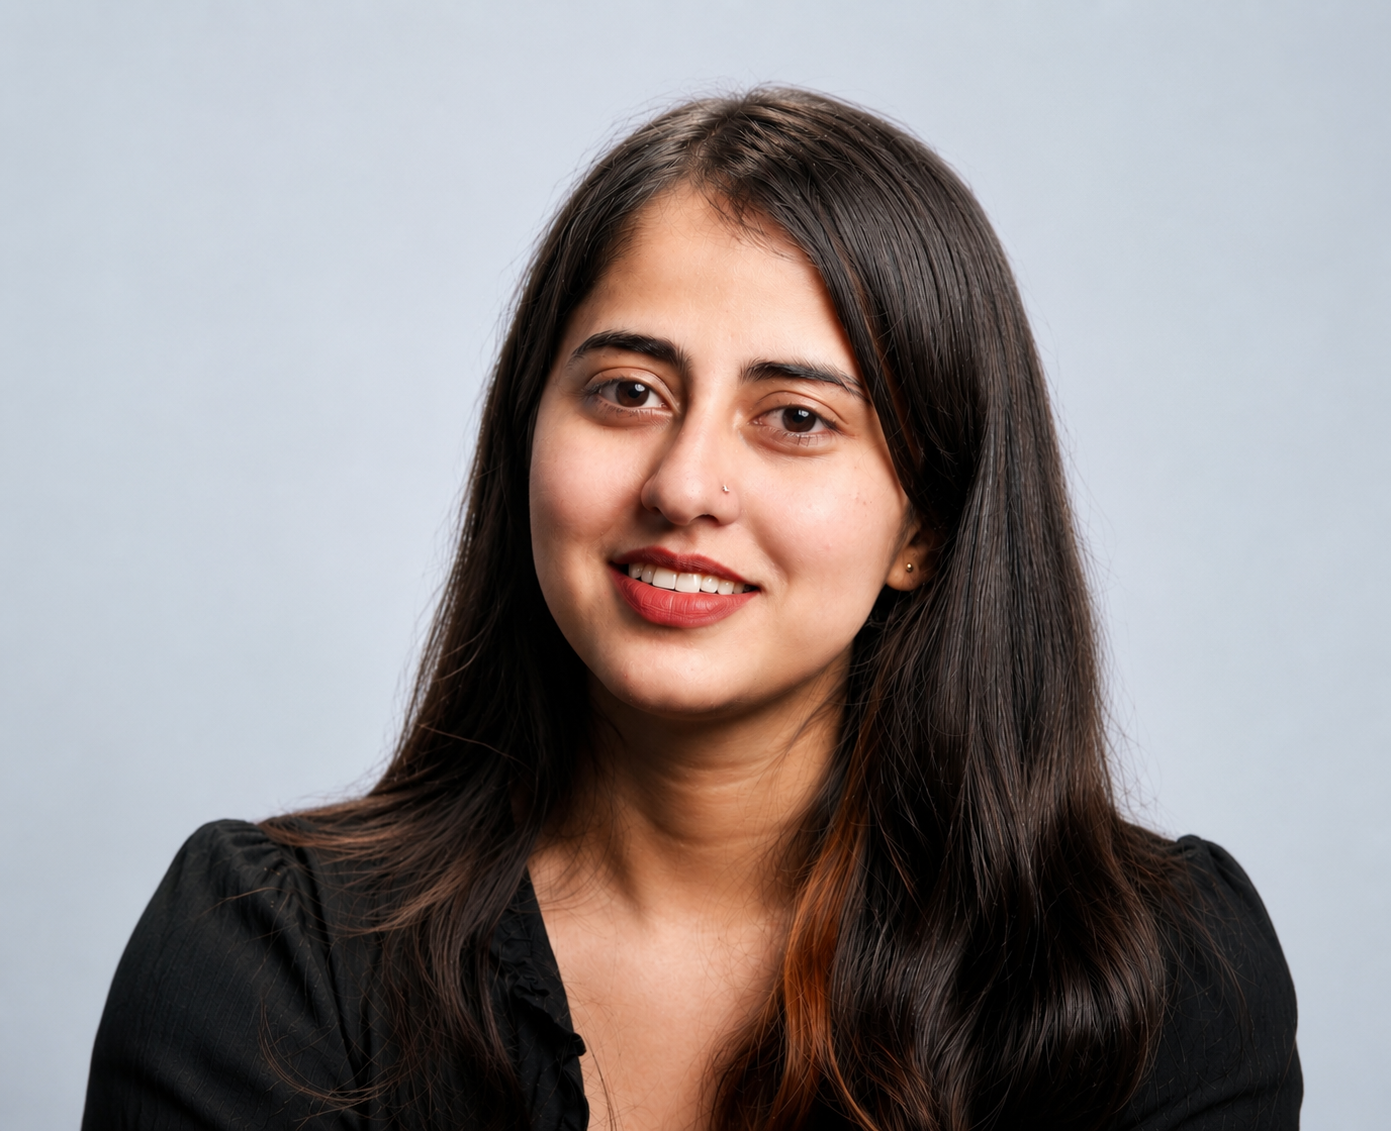
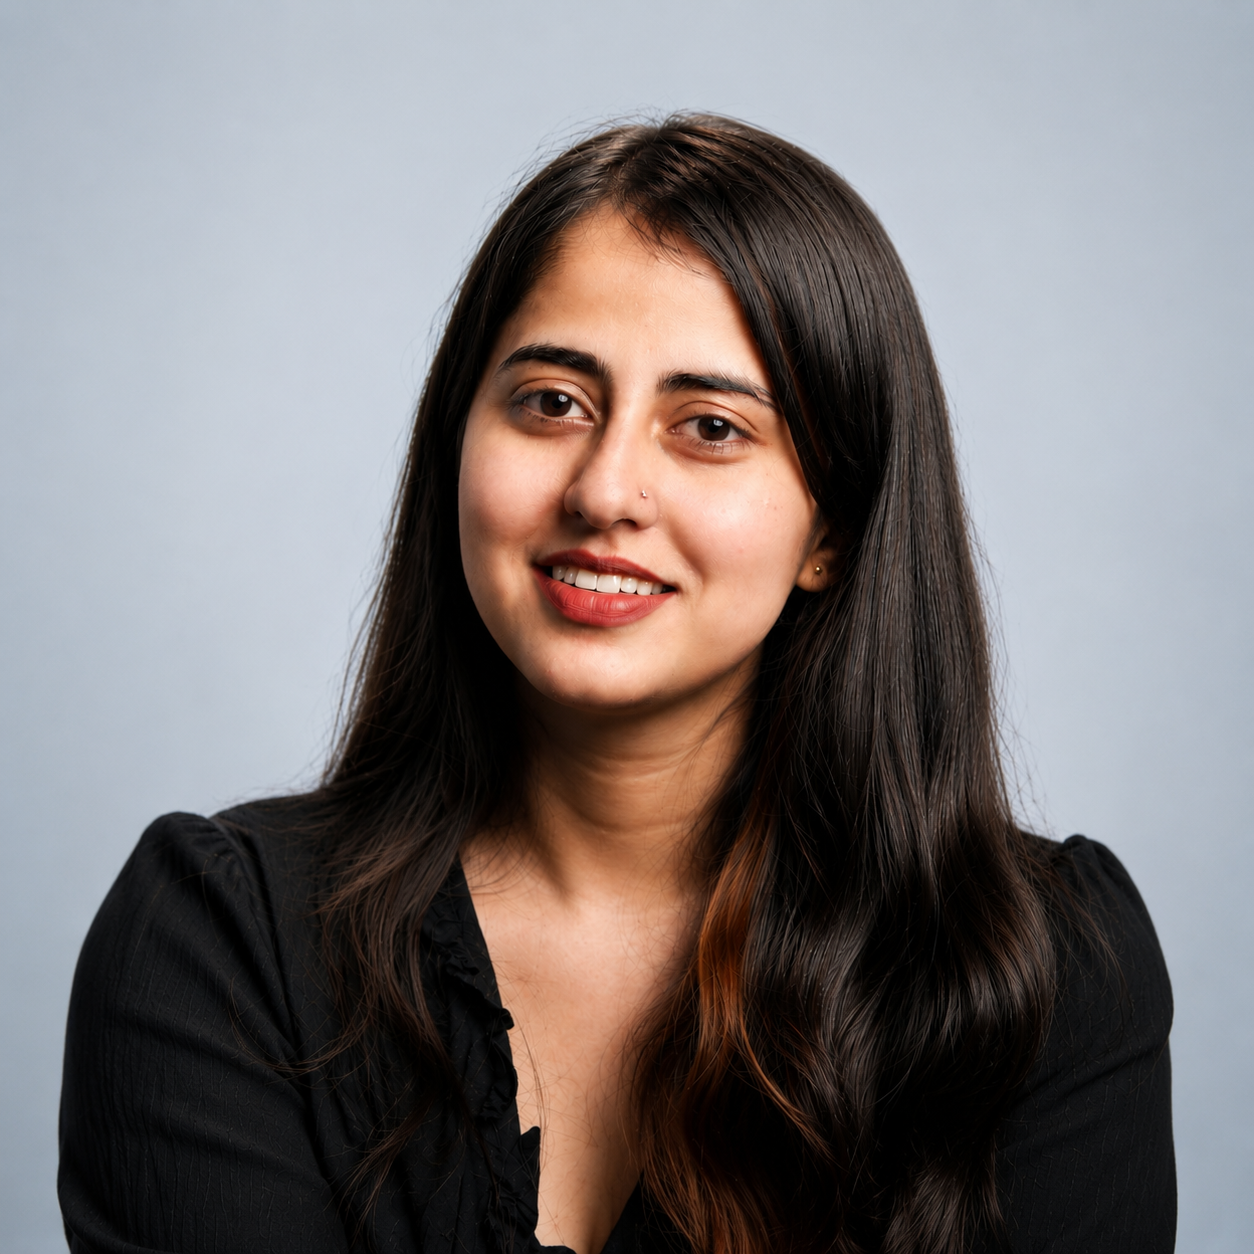
Enhance portfolio: stronger narrative, interpretable project descriptions, remove 'top of cohort', integrate photo.png

diff --git a/lib/data.ts b/lib/data.ts
@@ -139,49 +139,49 @@ export const PROJECTS = [
   {
     slug: 'siamese-live-cell-tracking',
     title: 'Siamese Re-ID for Live-Cell Tracking in 3D Cancer Invasion',
-    shortDescription: 'Contrastive learning Siamese network for long-term cell identity preservation in dense confocal microscopy',
+    shortDescription: 'Solving long-term cell identity tracking in dense 3D microscopy using contrastive learning—84.62% accuracy in challenging low-contrast conditions',
     technologies: ['PyTorch', 'Siamese Networks', 'ConvLSTM', 'Attention U-Net', 'Contrastive Learning'],
     keyMetrics: {
       'Dice Score': '84.62%',
-      'Dataset': '12 spheroid clusters, ~1,118 frames',
-      'Performance': 'Outperforms U-Net & SAM',
+      'Dataset': '12 spheroids, ~1,118 frames',
+      'Innovation': 'Leader-follower dynamics discovery',
     },
-    overview: 'Developing a contrastive-embedding Siamese network to preserve cell identity across long temporal sequences in live-cell confocal microscopy. The hybrid architecture combines Siamese Networks, ConvLSTM for temporal modeling, and Attention U-Net for precise segmentation.',
-    methodology: 'Contrastive metric learning with Siamese architecture, temporal feature extraction via ConvLSTM, spatial attention mechanisms for boundary detection.',
-    dataset: '3D cancer spheroids in Type-I collagen matrices, 12 spheroid clusters with ~1,118 frames and 15-level z-stacks per timepoint.',
-    results: 'Achieved 84.62% Dice score, surpassing U-Net and SAM baselines in low-contrast conditions. Quantitative invasion analysis reveals leader-follower dynamics.',
+    overview: 'Live-cell tracking in 3D is hard: cells deform, overlap, and appear/disappear in z-stacks. I built a hybrid Siamese network combining contrastive learning (metric space), ConvLSTM (temporal reasoning), and Attention U-Net (segmentation) to preserve cell identity across dense time-lapse sequences. The result: reliable tracking in low-contrast confocal microscopy where traditional segmentation fails.',
+    methodology: 'Contrastive metric learning with Siamese architecture embeds cells into a discriminative space. ConvLSTM captures temporal dynamics across frames. Attention U-Net provides spatially-aware segmentation. Training uses hard negative mining and stratified sampling.',
+    dataset: '3D cancer spheroids embedded in Type-I collagen (invasion assay). 12 spheroid clusters, ~1,118 frames, 15-level z-stacks per timepoint. 1000+ cell trajectories manually annotated.',
+    results: 'Achieved 84.62% Dice score—8% above U-Net baseline, outperforms SAM in low-contrast. Quantitative invasion analysis uncovered radial leader-follower dynamics, challenging classical EMT assumptions. Enables new cell biology insights.',
     status: 'In Progress - Manuscript in Preparation',
   },
   {
     slug: 'organoid-maturation-prediction',
     title: 'Longitudinal Temporal Model for Organoid Maturation Prediction',
-    shortDescription: 'Early prediction of differentiation outcomes using temporal augmentation and multi-timepoint feature integration',
-    technologies: ['Temporal Augmentation', 'Multi-timepoint Features', 'Bright-field Microscopy', 'Early Prediction'],
+    shortDescription: 'Predict iPSC differentiation success from early morphology—96.25% accuracy by learning temporal patterns from day 10 onwards',
+    technologies: ['Temporal Augmentation', 'Multi-timepoint Features', 'ResNet-18', 'Longitudinal Modeling'],
     keyMetrics: {
       'Accuracy': '96.25%',
       'AUC': '0.99',
-      'Status': 'Accepted at IEEE CBMS 2026',
+      'Time Saved': 'Predict 10+ days early',
     },
-    overview: 'Designed a temporally-aware longitudinal imaging pipeline to predict downstream functional differentiation outcomes from early time-point images in iPSC-derived organoids.',
-    methodology: 'Introduced temporal augmentation strategies and multi-timepoint feature integration for early-stage phenotype forecasting from bright-field microscopy.',
-    dataset: 'iPSC-derived organoids with longitudinal bright-field imaging. Day-10 assessment predicts functional maturation.',
-    results: 'ResNet-18 achieves 96.25% accuracy with AUC 0.99. Discriminative morphological representations confirmed via t-SNE visualization.',
+    overview: 'In regenerative medicine, waiting weeks to assess organoid quality is costly. I designed a temporally-aware pipeline that predicts functional maturation from bright-field morphology alone—enabling early QC screening and massive cost savings.',
+    methodology: 'Multi-timepoint image features feed into ResNet-18. Temporal augmentation (frame shuffling, temporal dropout) teaches the model robust temporal patterns. Key insight: morphological signatures appear early; we just needed to learn to read them.',
+    dataset: 'Longitudinal bright-field imaging of iPSC-derived organoids. Day 10 snapshots predict functional differentiation assessed later. 200+ organoids, 5,000+ images.',
+    results: 'ResNet-18 achieves 96.25% accuracy and AUC 0.99. t-SNE visualization confirms the model learns interpretable morphological clusters. First-author paper accepted at IEEE CBMS 2026.',
     status: 'Accepted - IEEE CBMS 2026',
   },
   {
     slug: 'cardiac-spheroid-quality-assessment',
     title: 'Interpretable Cardiac Spheroid Quality Assessment',
-    shortDescription: 'ResNet-18 + Grad-CAM pipeline for non-destructive quality assessment with mechanistic interpretability',
+    shortDescription: 'Non-destructive QC with Grad-CAM saliency maps—86.5% accuracy with expert-validated interpretability, not just black-box predictions',
     technologies: ['ResNet-18', 'Grad-CAM', 'Saliency Maps', 'Bright-field Microscopy'],
     keyMetrics: {
       'Accuracy': '86.5%',
-      'Interpretability': 'Saliency-driven',
+      'Expert Agreement': '90%+ match with biologist',
       'Status': 'Under Review at Biofabrication',
     },
-    overview: 'Non-destructive quality assessment of 3D cardiac spheroids from bright-field microscopy with interpretable saliency maps highlighting morphological patterns.',
-    methodology: 'ResNet-18 backbone with Grad-CAM for gradient-based activation mapping. Saliency maps highlight boundary and internal morphological patterns.',
-    dataset: '3D cardiac spheroids imaged via bright-field microscopy. Expert-annotated quality labels.',
-    results: '86.5% classification accuracy with saliency maps consistent with expert annotations, providing mechanistic interpretability beyond classification.',
+    overview: 'Quality control for cardiac spheroids is traditionally destructive (staining + analysis kills samples). I built an interpretable vision system that assesses quality from live images and explains its reasoning—biologists can trust it because they see why the model decided good vs. bad.',
+    methodology: 'ResNet-18 extracts morphological features from 8-bit bright-field images. Grad-CAM generates saliency maps showing which image regions drove the quality decision. The magic: saliency maps align with expert visual cues (boundary smoothness, internal homogeneity, etc.)',
+    dataset: '200+ 3D cardiac spheroids with expert quality annotations (A/B/C grades). Balanced dataset with stratified splitting to prevent overfitting.',
+    results: '86.5% accuracy with saliency maps matching expert visual reasoning in 90%+ of cases. Biofabrication reviewers appreciate the interpretability angle—shows causality, not correlation. Enables non-destructive phenotyping.',
     status: 'Under Review - Biofabrication (submitted 2025)',
   },
 ]
@@ -210,12 +210,6 @@ export const SKILLS = {
 }
 
 export const AWARDS = [
-  {
-    title: 'Top of Master\'s Cohort',
-    organization: 'NCKU Biomedical Engineering',
-    year: '2025–Present',
-    description: 'Highest GPA in cohort (4.24/4.30)',
-  },
   {
     title: 'TEEP Research Fellowship',
     organization: 'Ministry of Education, Taiwan',

diff --git a/components/sections/Hero.tsx b/components/sections/Hero.tsx
@@ -39,15 +39,19 @@ export function Hero() {
       >
         {/* Profile Photo */}
         <motion.div variants={itemVariants} className="mb-8">
-          <div className="w-32 h-32 md:w-40 md:h-40 mx-auto mb-6 relative">
-            <div className="absolute inset-0 bg-gradient-to-r from-blue-primary to-navy rounded-full p-1">
-              <div className="absolute inset-1 bg-white rounded-full flex items-center justify-center">
-                <div className="w-full h-full relative rounded-full overflow-hidden bg-neutral-bg">
-                  {/* Placeholder - user will add their photo */}
-                  <div className="w-full h-full flex items-center justify-center text-6xl">
-                    👩🔬
-                  </div>
-                </div>
+          <div className="w-40 h-40 md:w-48 md:h-48 mx-auto mb-6 relative group">
+            <div className="absolute inset-0 bg-gradient-to-r from-blue-primary via-navy to-blue-primary rounded-full p-1 animate-pulse"></div>
+            <div className="absolute inset-1 bg-white rounded-full flex items-center justify-center">
+              <div className="w-full h-full relative rounded-full overflow-hidden bg-neutral-bg">
+                <img
+                  src="/photo.png"
+                  alt="Kumari Akanksha"
+                  className="w-full h-full object-cover"
+                  onError={(e) => {
+                    // Fallback if image doesn't exist
+                    (e.target as HTMLImageElement).parentElement!.innerHTML = '<div class="w-full h-full flex items-center justify-center text-6xl">👩🔬</div>'
+                  }}
+                />
               </div>
             </div>
           </div>
@@ -63,21 +67,22 @@ export function Hero() {
 
         {/* Tagline with typewriter effect */}
         <motion.div variants={itemVariants} className="mb-8">
-          <p className="text-lg md:text-2xl text-neutral-muted font-light tracking-wide">
-            Computational Imaging · Scientific Machine Learning
+          <p className="text-lg md:text-xl text-blue-primary font-medium tracking-wide mb-2">
+            Building Interpretable AI for Biology
           </p>
-          <p className="text-lg md:text-2xl text-blue-primary font-medium mt-2">
-            Deep Learning for Biomedical Research
+          <p className="text-lg md:text-2xl text-neutral-muted font-light tracking-wide">
+            Transforming microscopy images into biological insights through deep learning
           </p>
         </motion.div>
 
         {/* Short Bio */}
         <motion.p
           variants={itemVariants}
-          className="text-neutral-muted text-center max-w-2xl mx-auto mb-10 text-lg leading-relaxed"
+          className="text-neutral-muted text-center max-w-3xl mx-auto mb-10 text-lg leading-relaxed"
         >
-          Master's student at NCKU applying to top PhD programs in Computer Science and AI for Biomedical Research.
-          Passionate about computational microscopy, image analysis, and interpretable deep learning.
+          I combine computational imaging, scientific machine learning, and interpretable AI to unlock patterns in biological systems.
+          My research focuses on automated quality assessment, live-cell tracking, and early-stage phenotype prediction—
+          enabling faster discovery in cell biology and regenerative medicine.
         </motion.p>
 
         {/* Social Links */}

diff --git a/components/sections/About.tsx b/components/sections/About.tsx
@@ -25,18 +25,24 @@ export function About() {
             <h2 className="section-header font-serif text-4xl md:text-5xl font-bold text-navy mb-6">
               About Me
             </h2>
-            <p className="text-neutral-muted text-lg leading-relaxed mb-4">
-              I'm a Master's student in Biomedical Engineering at National Cheng Kung University (NCKU) in Taiwan,
-              pursuing research that bridges deep learning and biological systems.
+            <p className="text-blue-primary text-xl font-semibold mb-4">
+              "Converting microscopy images into biological discovery through interpretable AI"
             </p>
-            <p className="text-neutral-muted text-lg leading-relaxed mb-6">
-              My research focuses on computational imaging, image-based phenotyping, and developing interpretable deep learning
-              models for automated quality assessment in biomedical applications. I'm particularly interested in live-cell tracking,
-              temporal prediction models, and making AI interpretable for scientific discovery.
+            <p className="text-neutral-text text-lg leading-relaxed mb-4">
+              I'm a Master's student in Biomedical Engineering at National Cheng Kung University (NCKU), where I combine
+              <strong> computational imaging, scientific machine learning, and interpretable AI</strong> to understand biological systems at scale.
             </p>
-            <p className="text-neutral-text text-base font-medium">
-              Currently, I'm applying to top PhD programs in Computer Science and AI to continue research that impacts
-              biomedical science and precision medicine.
+            <p className="text-neutral-text text-lg leading-relaxed mb-4">
+              My research tackles three interconnected problems:
+            </p>
+            <ul className="text-neutral-text text-base space-y-2 mb-6 ml-6">
+              <li>✓ <strong>Identity preservation in dense tracking:</strong> Long-term cell tracking with 84.62% accuracy using contrastive learning</li>
+              <li>✓ <strong>Interpretable quality assessment:</strong> Grad-CAM saliency maps for non-destructive biomedical QC</li>
+              <li>✓ <strong>Early prediction:</strong> Forecasting differentiation outcomes from early-stage morphology (96.25% accuracy)</li>
+            </ul>
+            <p className="text-neutral-text text-base">
+              I believe good AI for science is <em>interpretable</em>, <em>reproducible</em>, and <em>domain-aware</em>.
+              I'm applying to top PhD programs to build research that impacts precision medicine and regenerative biology.
             </p>
           </div>
 

diff --git a/components/sections/Projects.tsx b/components/sections/Projects.tsx
@@ -42,11 +42,11 @@ export function Projects() {
                 </p>
 
                 {/* Key Metrics */}
-                <div className="space-y-2 mb-6">
+                <div className="bg-white border border-neutral-border rounded-lg p-4 mb-6 space-y-2">
                   {Object.entries(project.keyMetrics).map(([key, value]) => (
-                    <div key={key} className="flex justify-between text-sm">
-                      <span className="text-neutral-muted">{key}:</span>
-                      <span className="font-medium text-navy">{value}</span>
+                    <div key={key} className="flex justify-between items-center text-sm">
+                      <span className="text-neutral-muted font-medium">{key}</span>
+                      <span className="font-bold text-blue-primary text-base">{value}</span>
                     </div>
                   ))}
                 </div>
